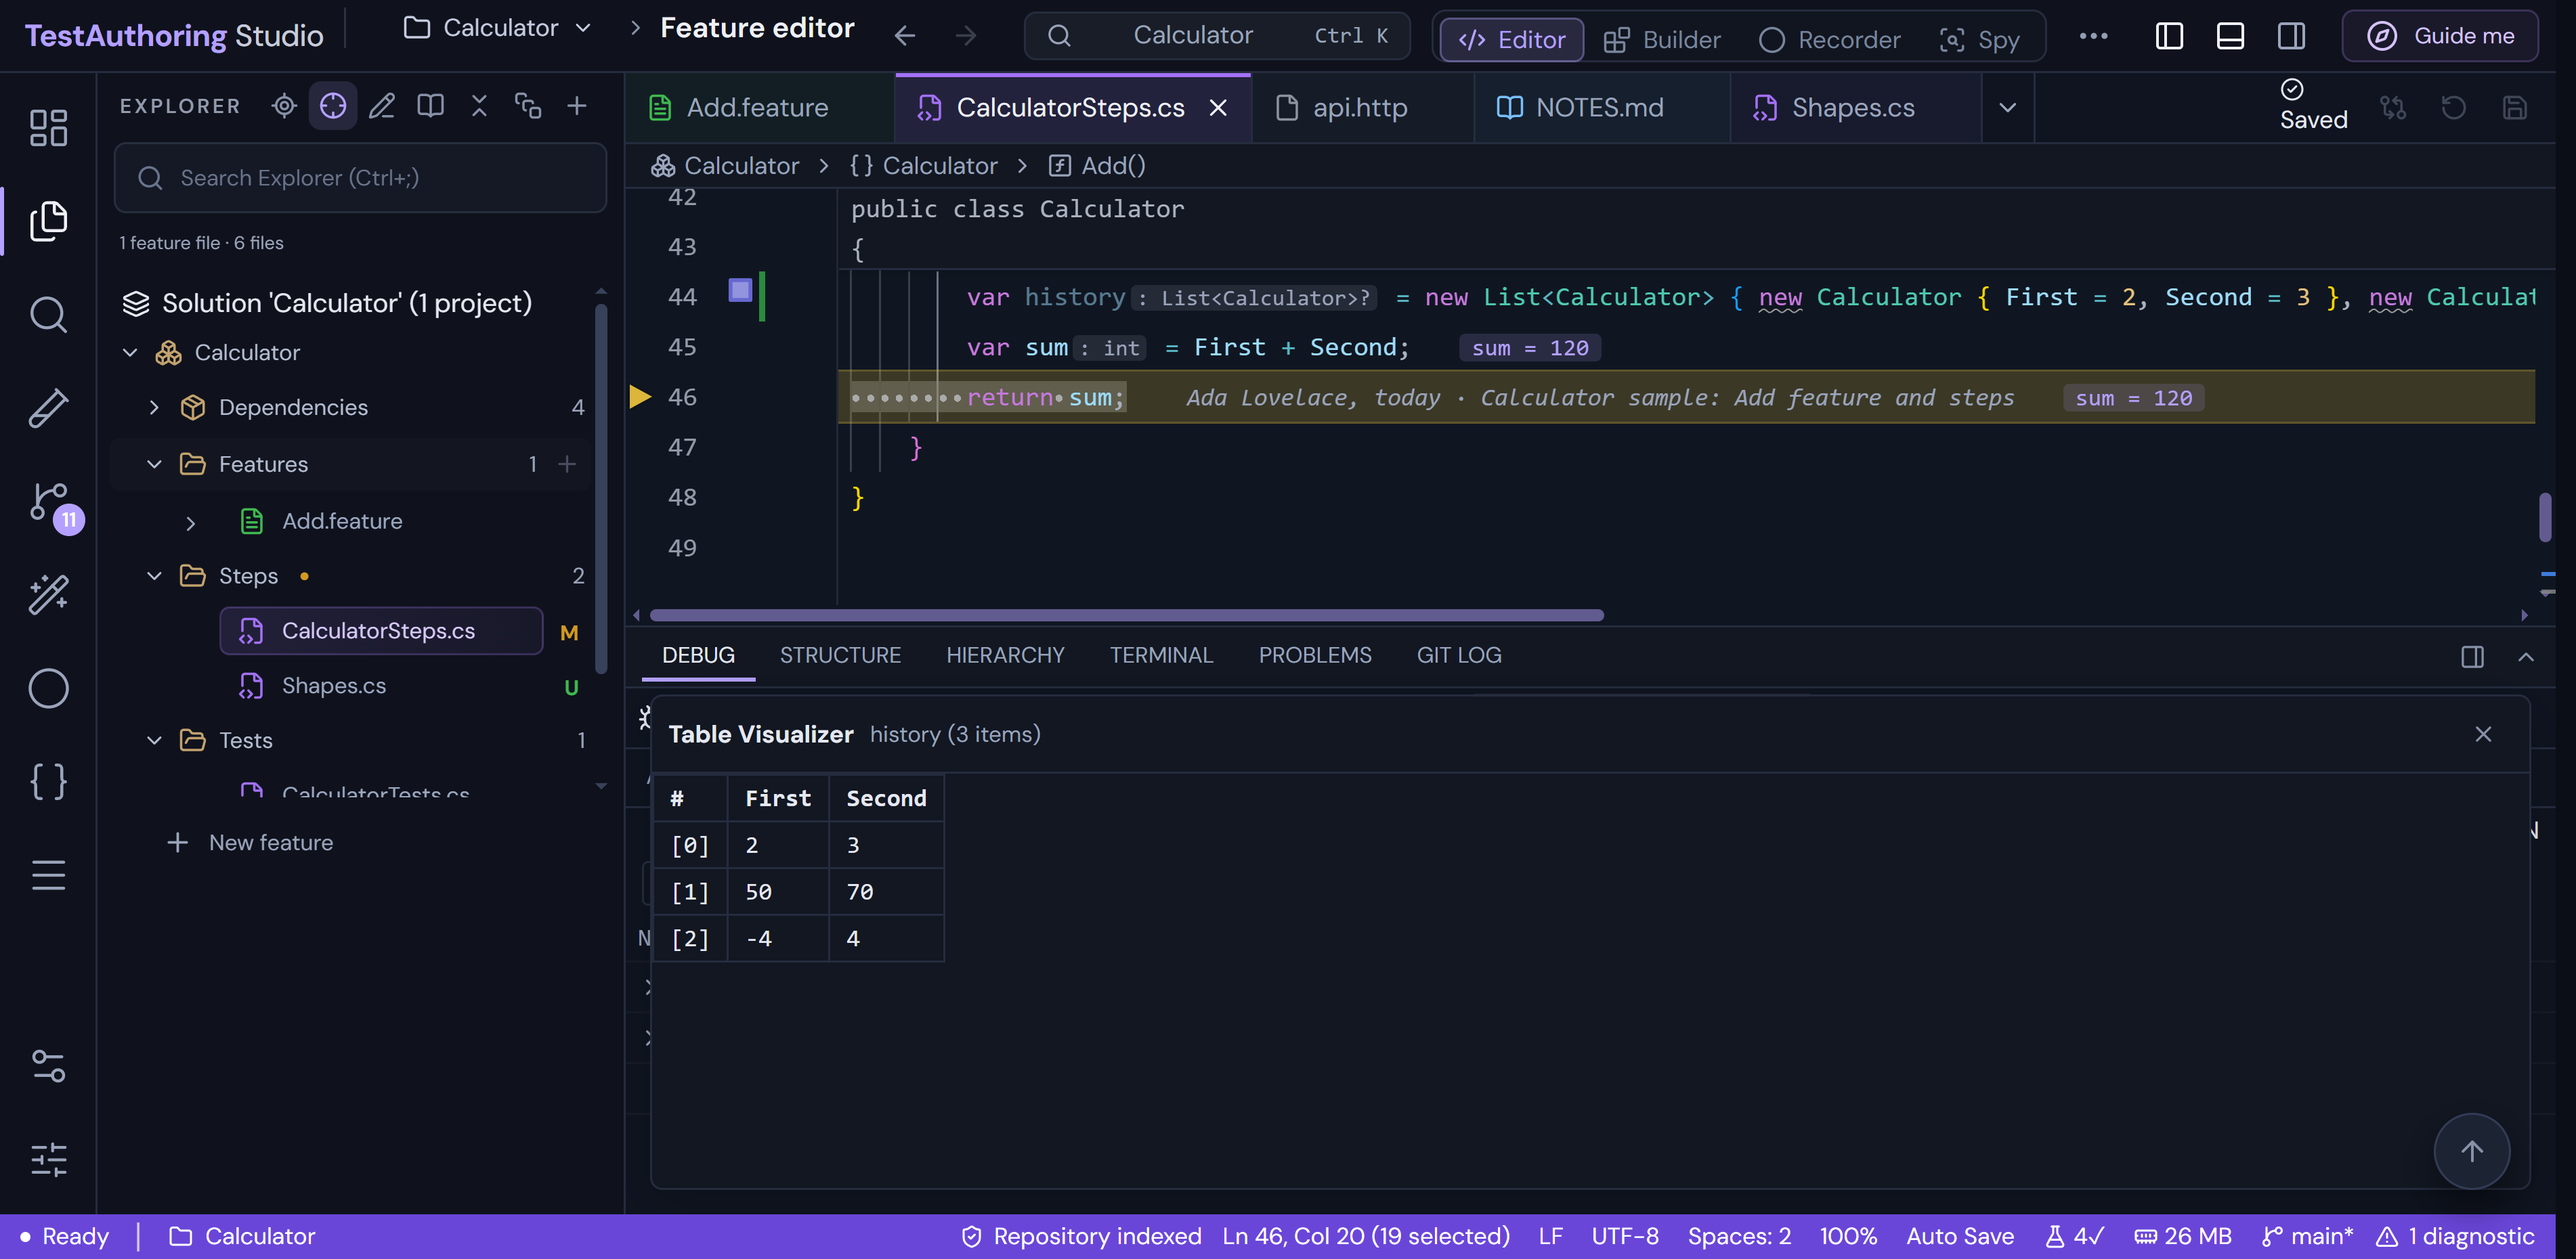
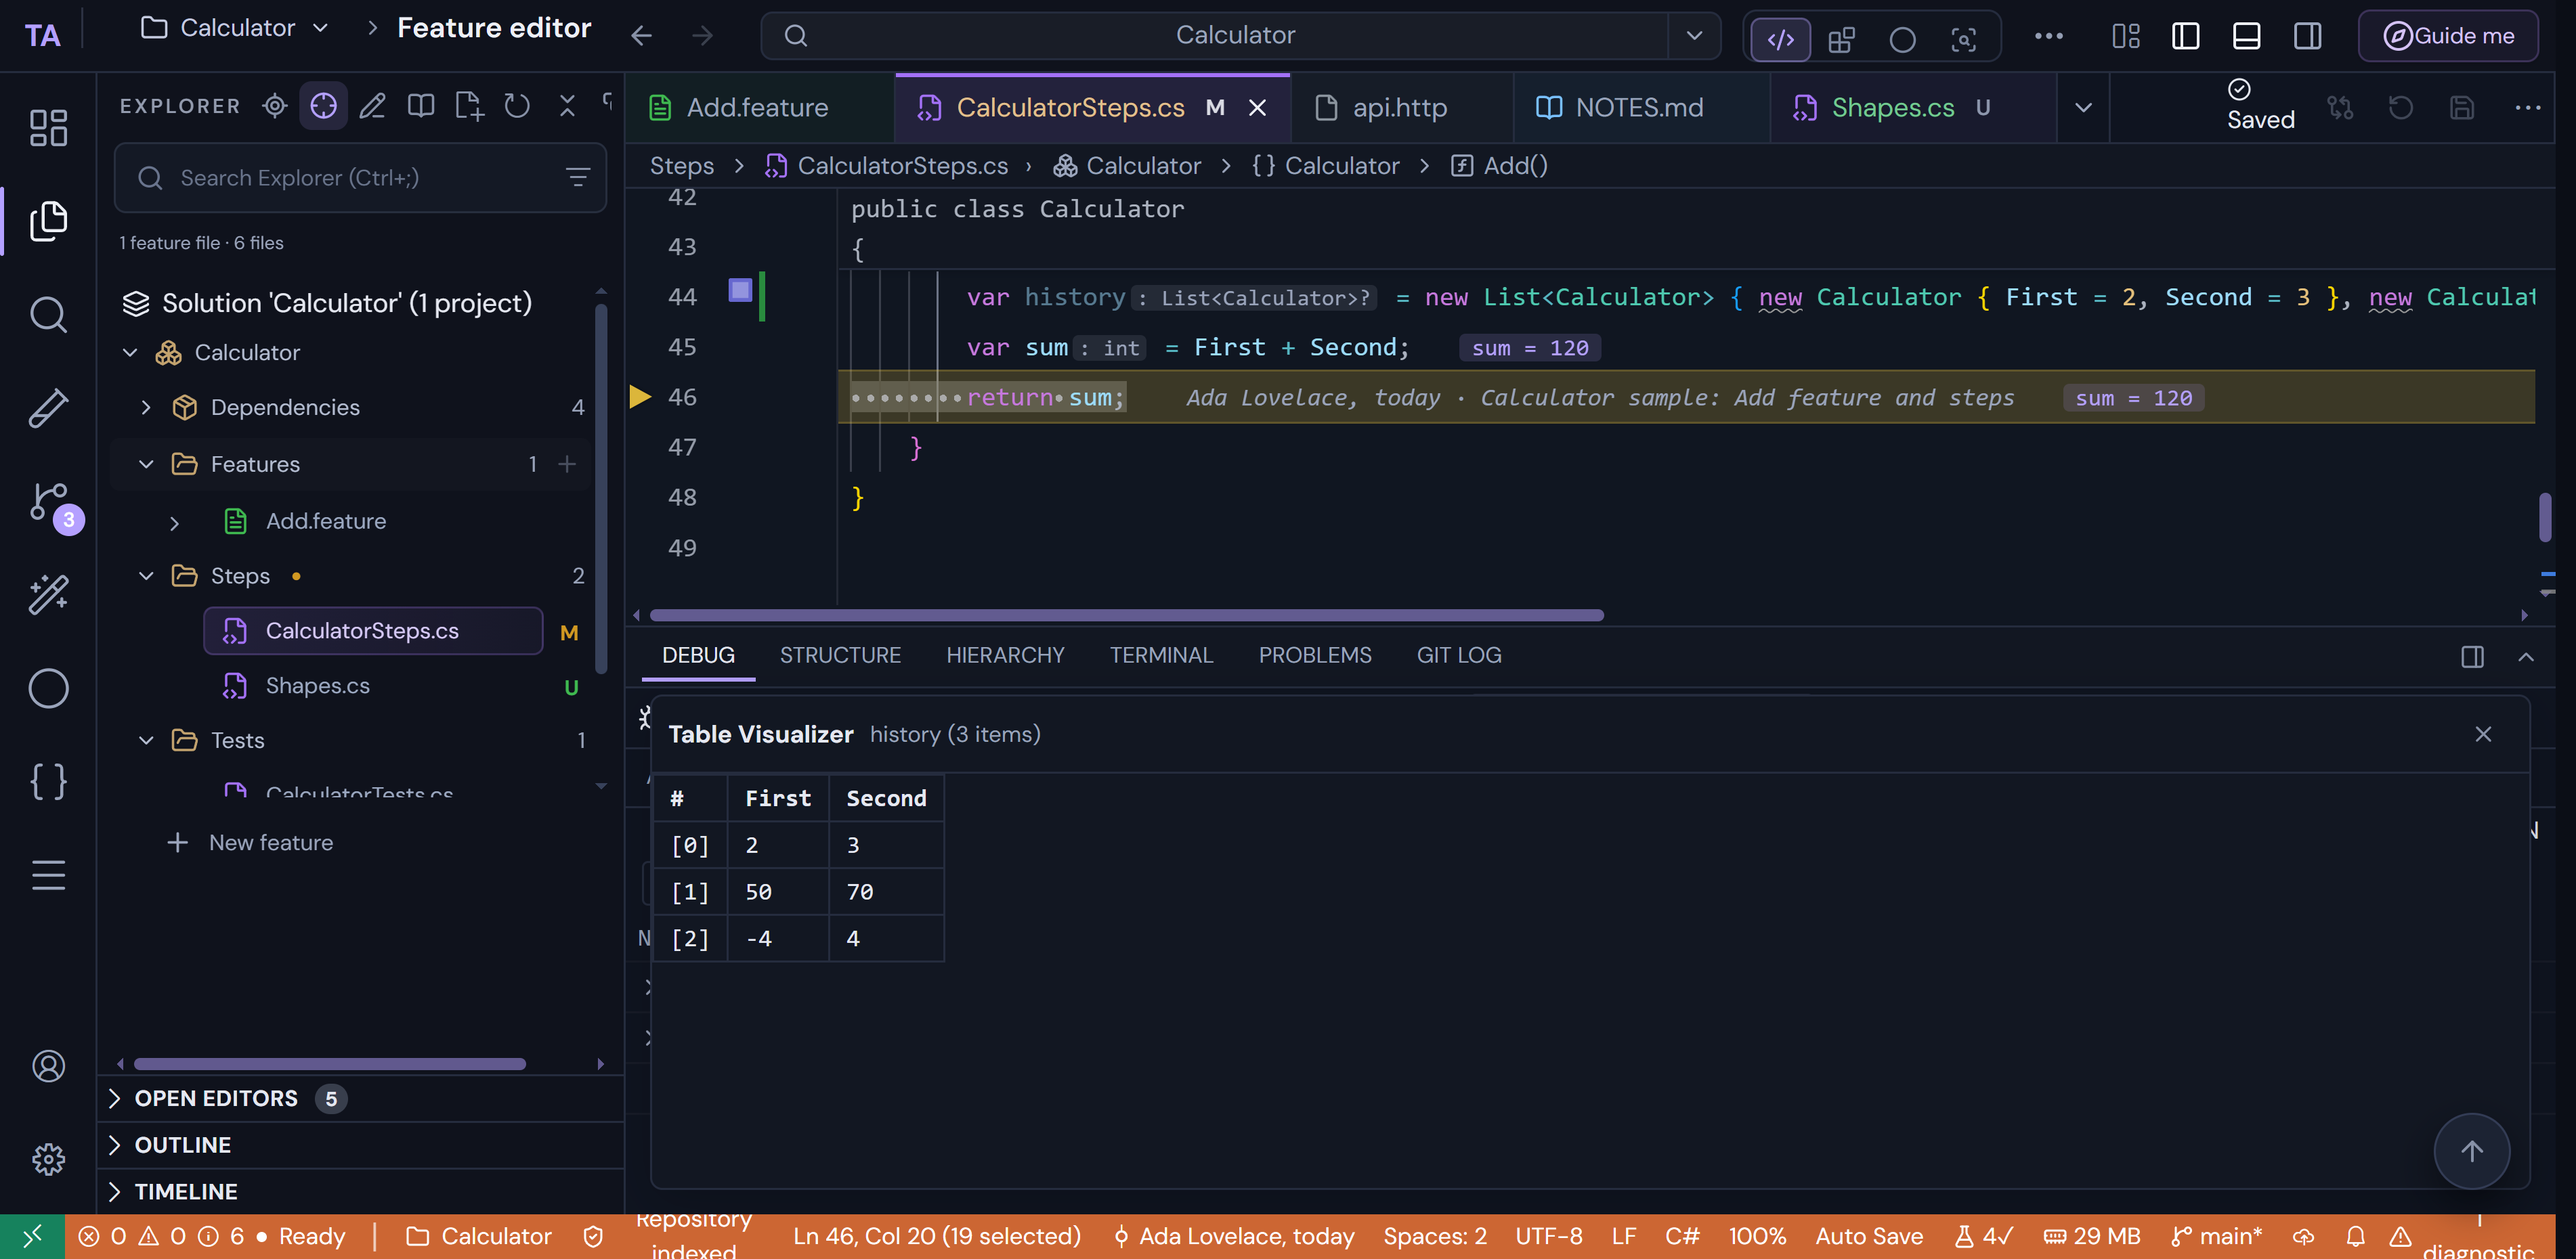
docs: refresh app screenshots and feature overview

diff --git a/README.md b/README.md
@@ -4,96 +4,74 @@ A local IDE for **SpecFlow / Reqnroll + Playwright (C#)** test repositories, as 
 (`test-authoring-desktop/`) and a web app (`test-authoring-studio/`) at feature parity. Everything runs on your
 machine; nothing is uploaded.
 
-## Key advanced features
+## Key features
 
-| Area | Feature | What it does |
-| --- | --- | --- |
-| Refactoring | **Change Signature** | Rename, remove and reorder parameters; every call site is updated, other files as diffs to approve. Also Reorder Parameters and Remove Unused Parameters. |
-| Refactoring | **Structural refactorings** | Extract Method / Interface / Superclass, Introduce Variable / Parameter / Field / Property / Factory Method, Inline Field, Pull Members Up, Push Members Down, Move Static Members, Replace Constructor with Factory, LINQ to loop, method to local function. Refactor This (Ctrl+Alt+Shift+T) lists them for the selection. |
-| C# | **Code generation and conversions** | `IEquatable<T>`, comparison members, `IAsyncDisposable`, equality, `ToString`, null checks, unit tests (NUnit, xUnit, MSTest); switch to expression, enum switch cases, tuple to named type, field to auto-property, record to class, interpolation to `string.Format`. |
-| Analysis | **Roslyn analyzers** | The IDE analyzers in the editor, severities from `.editorconfig` / `.globalconfig`, exclusion scopes, a preview of each quick fix, and Fix All in the document or the solution. Dead code, unused members and redundant code are faded. |
-| Analysis | **Solution analysis** | Duplicate code, namespace dependency cycles, layer rules from `layers.json`, control- and data-flow analysis, and Public API tracking against `PublicAPI.Shipped.txt` with breaking changes flagged. |
-| Navigation | **Semantic search and decompiled sources** | Find symbols by kind, type, return type and attribute (`kind:method attr:Given`); go to metadata or decompiled source of framework and NuGet code; method and call hierarchies; peek references; named bookmark lists. |
-| Search | **Search with Pattern** | Structural search and replace with `$placeholders$` and saved templates, previewed per file; search editors that can run again, multiline regex, case-preserving replace, search in the selection or in ignored files. |
-| Debugging | **Breakpoints and inspection** | Conditional, dependent, temporary and function breakpoints, tracepoints, hit counts and labels; edit values while paused; Text, JSON, XML and table visualizers; pinned DataTips; inline values; Threads window. |
-| Testing | **Coverage and test runs** | Line and branch coverage (partly covered lines in yellow, branch % per run), test history, Run Repeatedly, continuous testing on save, impacted tests from uncommitted changes, go to the next failure. |
-| Git | **History editing and merges** | Interactive rebase (reword, squash, fixup, drop, reorder), squash to HEAD, a three-way merge editor, compare commits, worktrees, bisect, changelists, commit templates, inline blame, stage selected lines. |
-| Projects | **Project Properties** | Property pages for a `.csproj` with effective values from the .NET SDK and `Directory.Build.props`; every change to a project file is a diff written only when you approve it. |
-| Front end | **JavaScript, TypeScript, React, HTML, CSS** | A TypeScript language service with 40+ refactorings (type alias ⇄ interface, async ⇄ promises, CommonJS ⇄ ES modules, destructuring, `??`, JS to TS…), auto-imports and import updates on move; React actions (extract component, class to function component, props interfaces, Hooks dependency checks via eslint-plugin-react-hooks); HTML completion, validation, accessibility and ARIA checks; CSS / SCSS / LESS completion, colour picker, shorthands, specificity, partials and CSS Modules. See [FRONTEND-100.md](FRONTEND-100.md). |
-| Editor | **VS Code settings** | A settings editor with a category tree, `settings.json` import / export and `@modified`; minimap with section headers, bracket pair guides, sticky scroll, rulers, word wrap, whitespace, semantic highlighting, inactive `#if` regions, format and organize usings on save. |
-| Workbench | **Layout** | Editor groups (split right or down, move, lock, maximize), floating editor windows, Zen Mode, a secondary sidebar, activity bar and panel positions. |
-| Workbench | **VS Code-style ease of use** | A resizable panel (drag its edge) with Maximize Panel Size, layout buttons and Back / Forward in the title bar, badges on the activity bar for Git changes and failed tests, index status in the status bar, double-click a tab to maximize the editor. See [GUI-QOL.md](GUI-QOL.md). |
+| Area | Highlights |
+| --- | --- |
+| **Test authoring** | Edit Gherkin features, scenarios, backgrounds and tables; browse the solution structure; navigate between bindings and C#; discover tests and review run results in Test Explorer. |
+| **C# editing** | Code completion and navigation, CodeLens, inlay hints, quick fixes, code generation and conversions, plus structural refactorings such as Extract Method, Introduce Variable and Change Signature. Cross-file changes are previewed before they are applied. |
+| **Analysis and search** | Roslyn diagnostics; duplicate-code, dependency and layer analysis; control/data flow; public API compatibility checks; semantic symbol search; structural Search with Pattern and decompiled framework sources. |
+| **Testing and debugging** | Run and debug scenarios, stop on feature-file breakpoints, inspect values with text/JSON/XML/table visualizers, and review line and branch coverage. |
+| **Browser tools** | Record Playwright interactions, inspect pages with Spy, and use the built-in HTTP client to exercise endpoints. |
+| **Test design and reuse** | Apply test-design algorithms, search existing step bindings and selector dictionaries, and review generated feature and C# changes before writing them to the target repository. |
+| **Git and projects** | Review history and diffs, use interactive rebase and three-way merge, and inspect effective `.csproj` properties with an approval diff before writing changes. |
+| **Workbench** | Resizable panels, editor groups, file structure and call hierarchy, terminal, problems, Run Anything, Markdown preview, productivity guide, customizable settings, minimap, and layout controls. |
+| **Front-end languages** | JavaScript and TypeScript refactorings and imports; React actions and Hooks checks; HTML validation and accessibility checks; CSS, SCSS, LESS and CSS Modules support. See [FRONTEND-100.md](FRONTEND-100.md). |
+| **Windows desktop integration** | Native menus and folder selection, recent repositories, remembered window placement and zoom, taskbar progress, and background test-run notifications. |
 
-Every optional feature has a switch under **Settings ▸ Features**. Progress and details:
-[RIDER-VSCODE-FEATURES.md](RIDER-VSCODE-FEATURES.md), [FRONTEND-100.md](FRONTEND-100.md), [VSCODE-20.md](VSCODE-20.md), [ADVANCED-20.md](ADVANCED-20.md),
-[CSHARP-20.md](CSHARP-20.md), [DEBUG-20.md](DEBUG-20.md), [REQNROLL.md](REQNROLL.md) and [SPY.md](SPY.md).
+The desktop and web apps share the core authoring features. Optional capabilities can be managed in **Settings > Features**. Detailed inventories and progress: [RIDER-VSCODE-FEATURES.md](RIDER-VSCODE-FEATURES.md), [FRONTEND-100.md](FRONTEND-100.md), [VSCODE-20.md](VSCODE-20.md), [ADVANCED-20.md](ADVANCED-20.md), [CSHARP-20.md](CSHARP-20.md), [DEBUG-20.md](DEBUG-20.md), [REQNROLL.md](REQNROLL.md), [SPY.md](SPY.md) and [GUI-QOL.md](GUI-QOL.md).
 
 ## Screenshots
 
-Captured from the Windows desktop build on a temporary copy of the Calculator sample (running-app captures, not
-mockups).
+These are running-app captures of the Windows desktop build using a temporary Calculator sample repository. The gallery covers authoring, debugging, Git, and the workbench tools.
 
-**Workbench.** Structure in a panel made taller by dragging its edge; layout buttons and Back / Forward in the title
-bar; a badge with the pending Git changes on the activity bar; the index status in the status bar.
+### Authoring, editing and navigation
 
-![Workbench](docs/screenshots/workbench.png)
+| Feature editor | C# editor | C# refactoring |
+| --- | --- | --- |
+| <img src="docs/screenshots/feature-editor.png" alt="Feature editor" width="320"> | <img src="docs/screenshots/csharp-editor.png" alt="C# editor" width="320"> | <img src="docs/screenshots/csharp-refactoring.png" alt="C# refactoring" width="320"> |
 
-**Change Signature.** Rename a parameter, remove an unused one and move another up; the new signature updates as you
-go, and call sites in other files come back as diffs.
+| Change Signature | Semantic search | Decompiled source |
+| --- | --- | --- |
+| <img src="docs/screenshots/change-signature.png" alt="Change Signature" width="320"> | <img src="docs/screenshots/semantic-search.png" alt="Semantic search" width="320"> | <img src="docs/screenshots/decompiled-source.png" alt="Decompiled source" width="320"> |
 
-![Change Signature](docs/screenshots/change-signature.png)
+| File structure | Call hierarchy | Search with Pattern |
+| --- | --- | --- |
+| <img src="docs/screenshots/file-structure.png" alt="File structure" width="320"> | <img src="docs/screenshots/call-hierarchy.png" alt="Call hierarchy" width="320"> | <img src="docs/screenshots/search-pattern.png" alt="Search with Pattern" width="320"> |
 
-**C# refactoring.** Refactor This lists the refactorings for the selection. The gutter marks members that override
-or are overridden, and the caret's line shows who changed it last.
+### Test runs, debugging and browser tools
 
-![C# refactoring](docs/screenshots/csharp-refactoring.png)
+| Test Explorer | Debugger | Debugger visualizer |
+| --- | --- | --- |
+| <img src="docs/screenshots/test-explorer.png" alt="Test Explorer" width="320"> | <img src="docs/screenshots/debugger.png" alt="Debugger" width="320"> | <img src="docs/screenshots/debugger-visualizer.png" alt="Debugger visualizer" width="320"> |
 
-**Public API.** A saved baseline compared with the current code: removed and changed members are breaking changes,
-added members are not.
+| Branch coverage | Playwright recorder | Spy |
+| --- | --- | --- |
+| <img src="docs/screenshots/branch-coverage.png" alt="Branch coverage" width="320"> | <img src="docs/screenshots/recorder.png" alt="Recorder" width="320"> | <img src="docs/screenshots/spy.png" alt="Spy" width="320"> |
 
-![Public API](docs/screenshots/public-api.png)
+### Git, projects and workbench
 
-**Semantic search.** Symbols found by kind and attribute across the solution; select one to open it.
+| Workbench | Git Log | Interactive rebase |
+| --- | --- | --- |
+| <img src="docs/screenshots/workbench.png" alt="Workbench" width="320"> | <img src="docs/screenshots/git-log.png" alt="Git Log" width="320"> | <img src="docs/screenshots/interactive-rebase.png" alt="Interactive rebase" width="320"> |
 
-![Semantic search](docs/screenshots/semantic-search.png)
+| Three-way merge | Project Properties | Settings editor |
+| --- | --- | --- |
+| <img src="docs/screenshots/merge-editor.png" alt="Merge editor" width="320"> | <img src="docs/screenshots/project-properties.png" alt="Project Properties" width="320"> | <img src="docs/screenshots/settings-editor.png" alt="Settings editor" width="320"> |
 
-**Decompiled source.** Go to the implementation of a framework method, decompiled from its assembly.
+### More tools
 
-![Decompiled source](docs/screenshots/decompiled-source.png)
+| Start window | Productivity guide | Run Anything |
+| --- | --- | --- |
+| <img src="docs/screenshots/start-window.png" alt="Start window" width="320"> | <img src="docs/screenshots/productivity-guide.png" alt="Productivity guide" width="320"> | <img src="docs/screenshots/run-anything.png" alt="Run Anything" width="320"> |
 
-**Search with Pattern.** A structural search with placeholders across the solution, with a replacement to preview.
+| Terminal | Problems | HTTP client |
+| --- | --- | --- |
+| <img src="docs/screenshots/terminal.png" alt="Terminal" width="320"> | <img src="docs/screenshots/problems.png" alt="Problems" width="320"> | <img src="docs/screenshots/http-client.png" alt="HTTP client" width="320"> |
 
-![Search with Pattern](docs/screenshots/search-pattern.png)
-
-**Branch coverage.** One test takes one branch of two: the line is marked partly covered, and Test Explorer shows the
-line and branch rates of the run.
-
-![Branch coverage](docs/screenshots/branch-coverage.png)
-
-**Debugger visualizer.** Paused in a step definition: a list shown as a table, one row per item and a column per
-property.
-
-![Debugger visualizer](docs/screenshots/debugger-visualizer.png)
-
-**Interactive rebase.** Plan a rebase from the Git Log: pick, reword, squash, fix up, drop or reorder commits. Here
-the WIP commit is folded into the one before it and a later fix is moved up and dropped.
-
-![Interactive rebase](docs/screenshots/interactive-rebase.png)
-
-**Three-way merge editor.** Current and incoming changes beside the result, with Accept Current / Incoming / Both per
-conflict and Complete Merge once none are left.
-
-![Merge editor](docs/screenshots/merge-editor.png)
-
-**Project Properties.** Settings the project file does not set show their effective value; changes are previewed as
-a diff of the `.csproj`.
-
-![Project Properties](docs/screenshots/project-properties.png)
-
-**Settings editor.** Categories as a tree (here Text Editor ▸ Minimap), with search, modified markers and
-`settings.json`.
-
-![Settings editor](docs/screenshots/settings-editor.png)
+| Markdown preview | Public API | Desktop settings |
+| --- | --- | --- |
+| <img src="docs/screenshots/markdown-preview.png" alt="Markdown preview" width="320"> | <img src="docs/screenshots/public-api.png" alt="Public API" width="320"> | <img src="docs/screenshots/desktop-settings.png" alt="Desktop settings" width="320"> |
 
 ## Build
 
@@ -105,5 +83,11 @@ npm install && npm run dist
 ```
 
 The .NET helpers need the .NET 10 SDK (a local one in `.tools/dotnet/` works). Architecture notes: [CLAUDE.md](CLAUDE.md).
-To refresh the screenshots, build the desktop app, then from `test-authoring-desktop/` run
-`TAS_SCREENSHOTS=1 TAS_EXE="release/win-unpacked/TestAuthoring Studio.exe" npx playwright test screenshots`.
+To refresh the screenshots, from `test-authoring-desktop/` run:
+
+```powershell
+npm run pack
+$env:TAS_SCREENSHOTS = '1'
+$env:TAS_EXE = 'release/win-unpacked/TestAuthoring Studio.exe'
+npx playwright test screenshots
+```
